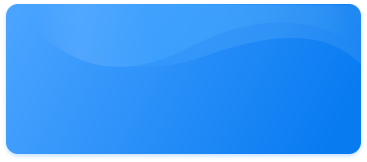
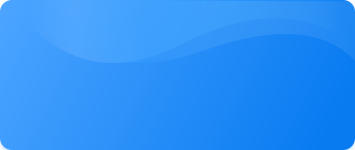
主页调整

Changed region(s): [[0.0, 0.0, 1.0, 1.0]]

diff --git a/src/pages/index/index.vue b/src/pages/index/index.vue
@@ -222,12 +222,14 @@ const createOrder = () => {
     background-size: cover;
     background-position: center center;
     color: #fff;
+    border-radius: 20rpx;
+    overflow: hidden;
     .context-left {
       height: 100%;
       display: flex;
       flex-direction: column;
       justify-content: center;
-      margin-left: 100rpx;
+      margin-left: 50rpx;
       .title {
         font-size: 52rpx;
         font-style: oblique;
@@ -263,15 +265,17 @@ const createOrder = () => {
     position: relative;
     height: 250rpx;
     margin-top: 40rpx;
-    background-color: $uni-color-primary;
+    background-image: url("/static/banner2.png");
+    background-size: cover;
+    background-position: center center;
     border-radius: 20rpx;
     .tit {
       position: absolute;
       left: 0;
       top: 0;
       padding: 10rpx 40rpx;
-      background-color: #000;
-      color: $uni-color-primary;
+      background-color: rgb(8, 123, 241);
+      color: #d4e9ff;
       font-size: 24rpx;
       border-top-left-radius: 20rpx;
       border-bottom-right-radius: 20rpx;
@@ -292,7 +296,7 @@ const createOrder = () => {
         .icon {
           width: 60rpx;
           height: 60rpx;
-          background-color: #e8d262;
+          background-color: #d4e9ff;
           border-radius: 50%;
           display: flex;
           align-items: center;
@@ -303,6 +307,7 @@ const createOrder = () => {
           margin-top: 15rpx;
           font-size: 24rpx;
           transform: scale(0.8);
+          color: #fff;
         }
       }
       .next {

diff --git a/src/pages/order/index.vue b/src/pages/order/index.vue
@@ -42,7 +42,7 @@ const menuList = reactive([
   },
   {
     key: "doing",
-    name: "生产中",
+    name: "进行中",
   },
   {
     key: "finish",

diff --git a/src/uni.scss b/src/uni.scss
@@ -1,3 +1,3 @@
-$uni-color-primary: #eee353;
+$uni-color-primary: #d4e9ff;
 
 @import "uview-plus/theme.scss";
